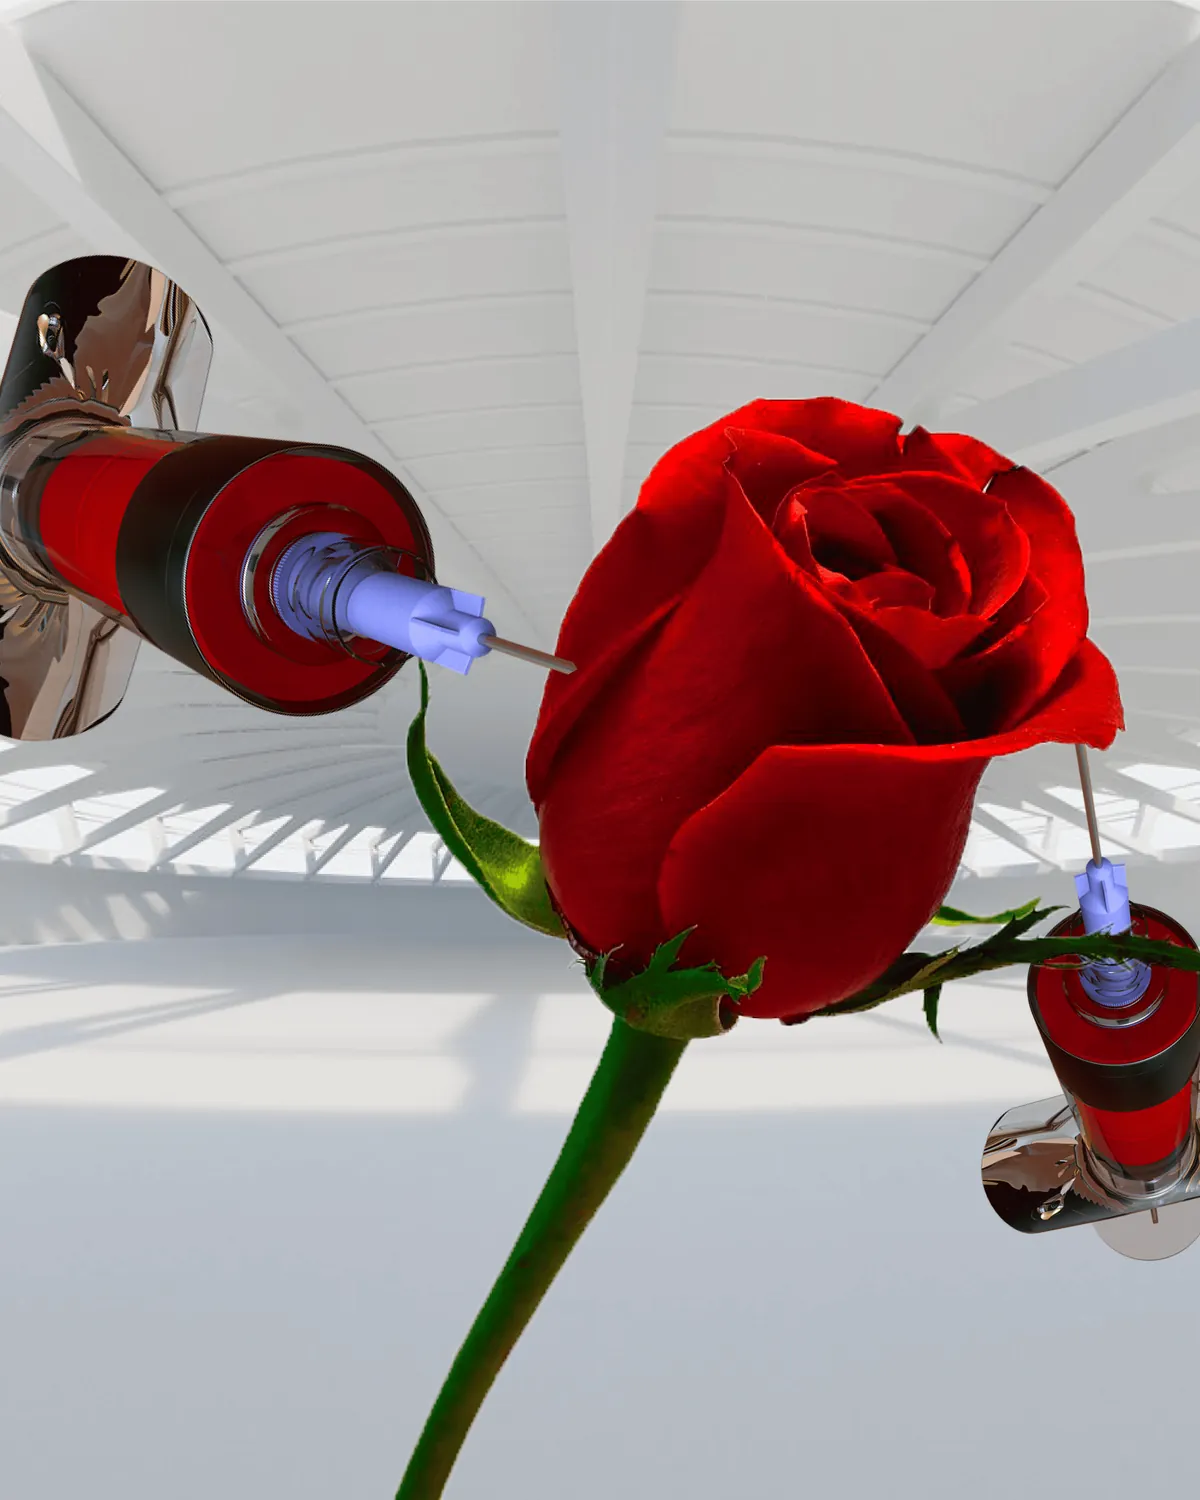
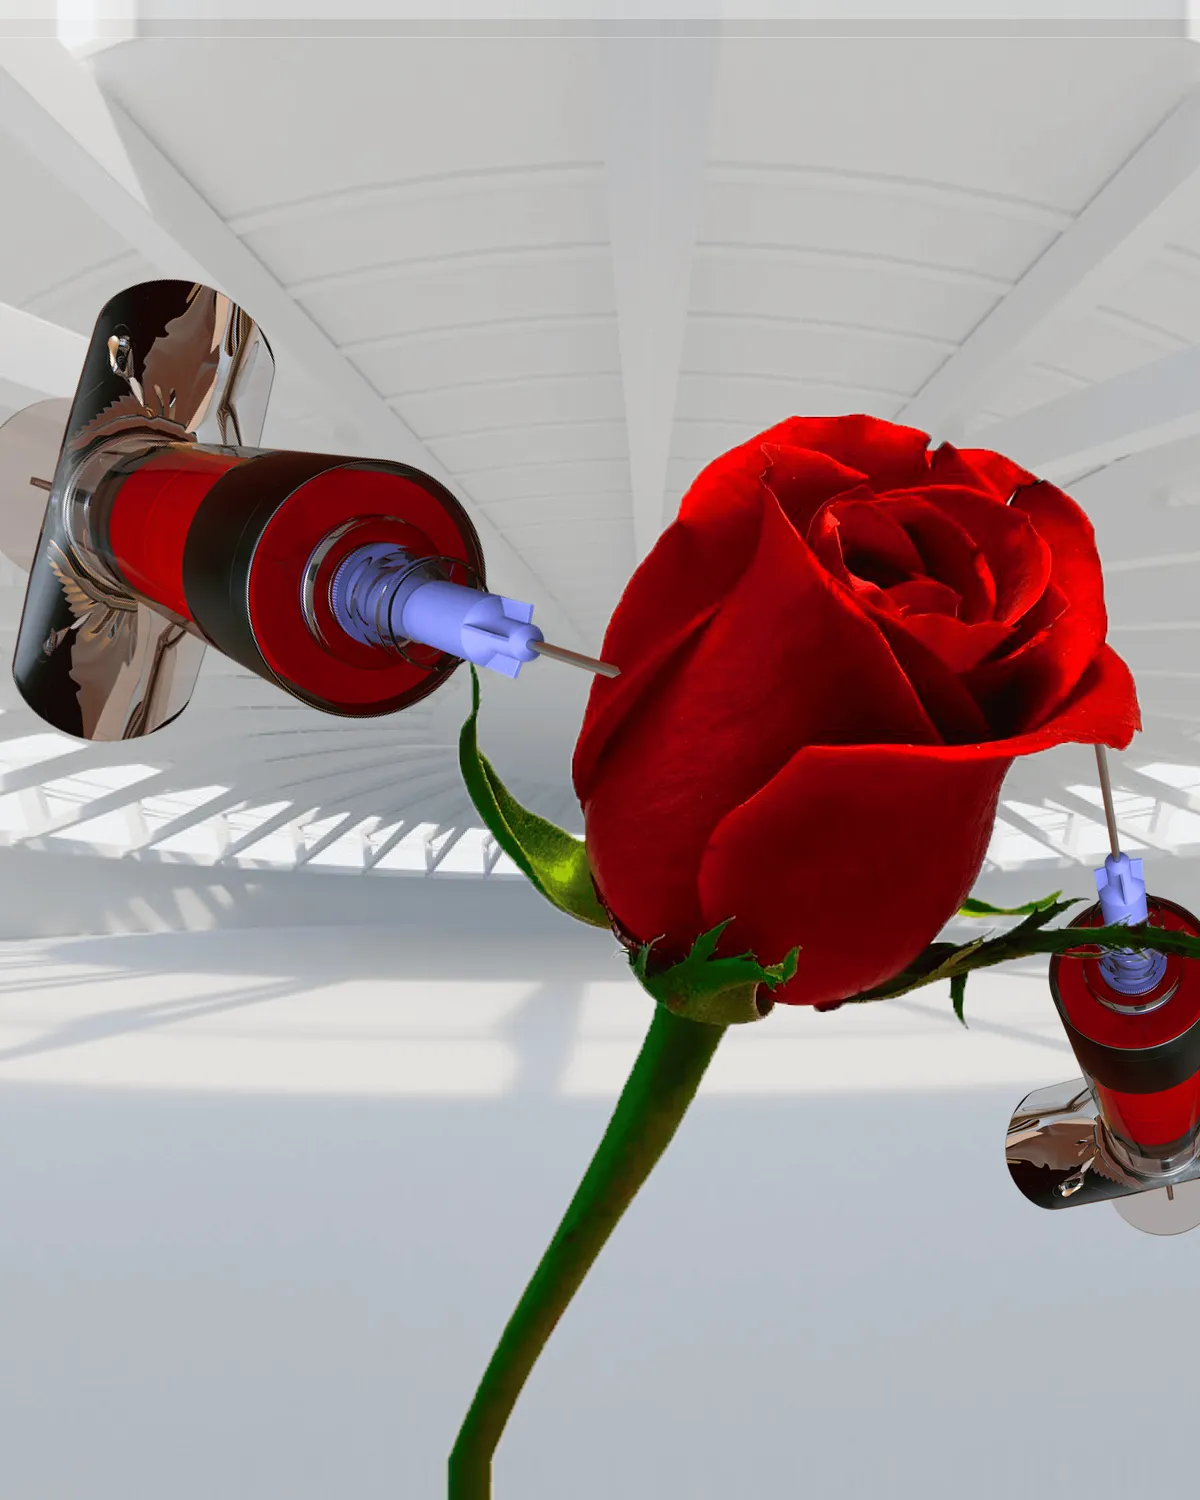
Lab: Rosa II framed close on the rose and both syringes; plate 16 is Corralones

Changed region(s): [[0.0, 0.0, 1.0, 1.0], [0.9867, 0.0, 1.0, 0.0307]]

diff --git a/src/outils/artwork.ts b/src/outils/artwork.ts
@@ -39,7 +39,7 @@ export const reel: Plate[] = [
   { id: "r03", url: L("club-shy"), title: "Club Shy", tech: "3d" },
   { id: "r04", url: `${L("cicuta")}?v=2`, title: "Cicuta", tech: "3d" },
   { id: "r05", url: L("otono"), title: "Otoño en la Luna", tech: "vector" },
-  { id: "r06", url: L("rosa-blanca"), title: "Rosa II", tech: "3d" },
+  { id: "r06", url: `${L("rosa-blanca")}?v=2`, title: "Rosa II", tech: "3d" },
   { id: "r07", url: `${L("memoria")}?v=2`, title: "Memoria", tech: "3d" },
   { id: "r08", url: L("alfame"), title: "Alfama Lisboa" },
   { id: "r09", url: L("vacuna"), video: "/lab/vacuna.mp4", title: "Vacuna", tech: "3d" },
@@ -49,7 +49,7 @@ export const reel: Plate[] = [
   { id: "r13", url: L("amorsacro"), title: "Amorsacro", tech: "digital" },
   { id: "r14", url: `${L("lilo")}?v=2`, title: "Lilo" },
   { id: "r15", url: L("single"), title: "Single" },
-  { id: "r16", url: L("lerele"), title: "Lerele" },
+  { id: "r16", url: L("lerele"), title: "Corralones" },
 ];
 
 export type Tech = "digital" | "vector" | "3d";
